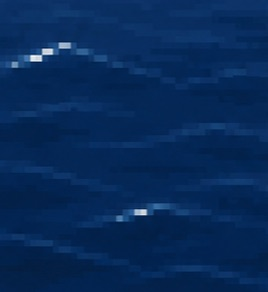
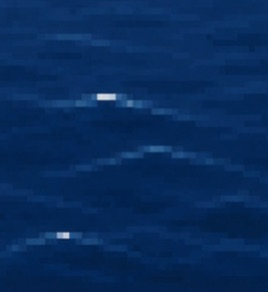
Neue große Hintergrund

diff --git a/game.py b/game.py
@@ -10,43 +10,22 @@ class Game:
         pygame.display.set_caption(TITLE)
         self.clock = pygame.time.Clock()
         self.player = Player()
-        self.tile_size = 128
-        c = WIDTH // self.tile_size + 1
-        r = HEIGHT // self.tile_size + 1
-        self.water_tiles = [
+        self.water_frames = [
             pygame.transform.scale(
-                pygame.image.load("assets/water1.PNG").convert(),
-                (128, 128)
+                pygame.image.load("assets/waterbig1.PNG").convert(),
+                (WIDTH, HEIGHT)
             ),
             pygame.transform.scale(
-                pygame.image.load("assets/water2.PNG").convert(),
-                (128, 128)
-            ),
-            pygame.transform.scale(
-                pygame.image.load("assets/water3.PNG").convert(),
-                (128, 128)
-            ),
-            pygame.transform.scale(
-                pygame.image.load("assets/water4.PNG").convert(),
-                (128, 128)
+                pygame.image.load("assets/waterbig2.PNG").convert(),
+                (WIDTH, HEIGHT)
             )
         ]
-
 
         self.current_water = 0
         self.water_timer = 0
 
     def draw_water(self):
-        for row in range(HEIGHT // self.tile_size + 1):
-            for col in range(WIDTH // self.tile_size + 1):
-                tile_index = (row + col + self.current_water) % 4
-
-                self.screen.blit(
-                    self.water_tiles[tile_index],
-                    (col * self.tile_size, row * self.tile_size)
-                )
-
-
+        self.screen.blit(self.water_frames[self.current_water], (0, 0))
     def run(self):
         self.running = True
 
@@ -55,10 +34,10 @@ class Game:
                 if event.type == pygame.QUIT:
                     self.running = False
 
-            self.water_timer += 1
-            if self.water_timer > 15:
+            self.water_timer += self.clock.get_time()
+            if self.water_timer > 600:
                 self.water_timer = 0
-                self.current_water = (self.current_water + 1) % 4
+                self.current_water = (self.current_water + 1) % 2
             self.draw_water()
             keys = pygame.key.get_pressed()
             self.player.update(keys)
